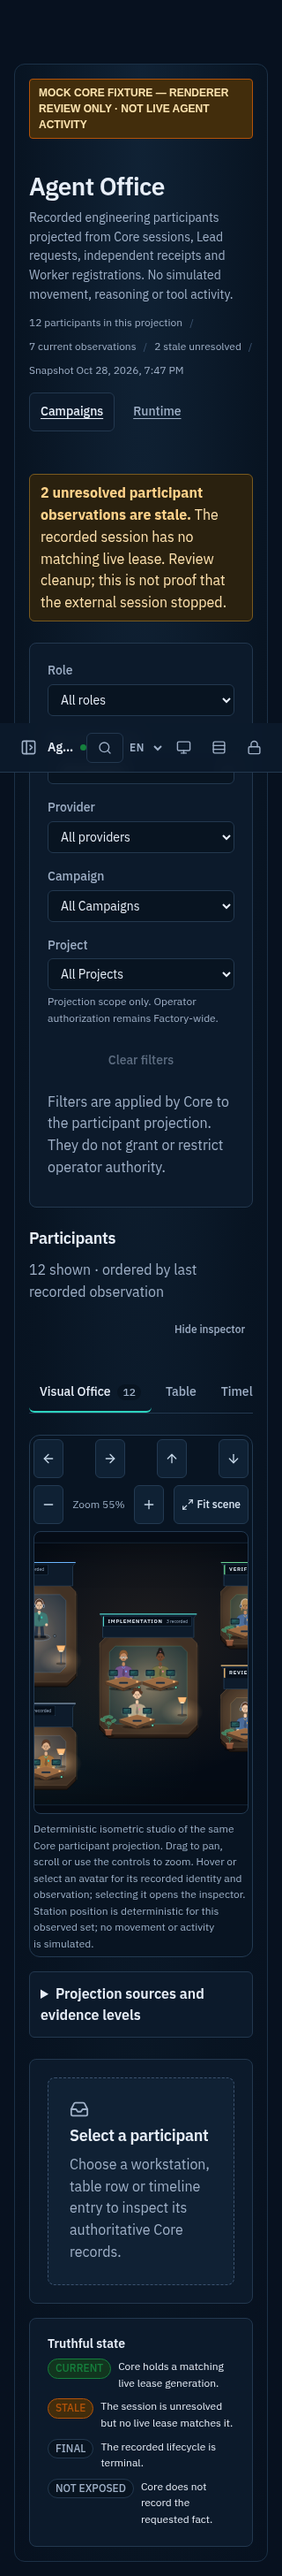
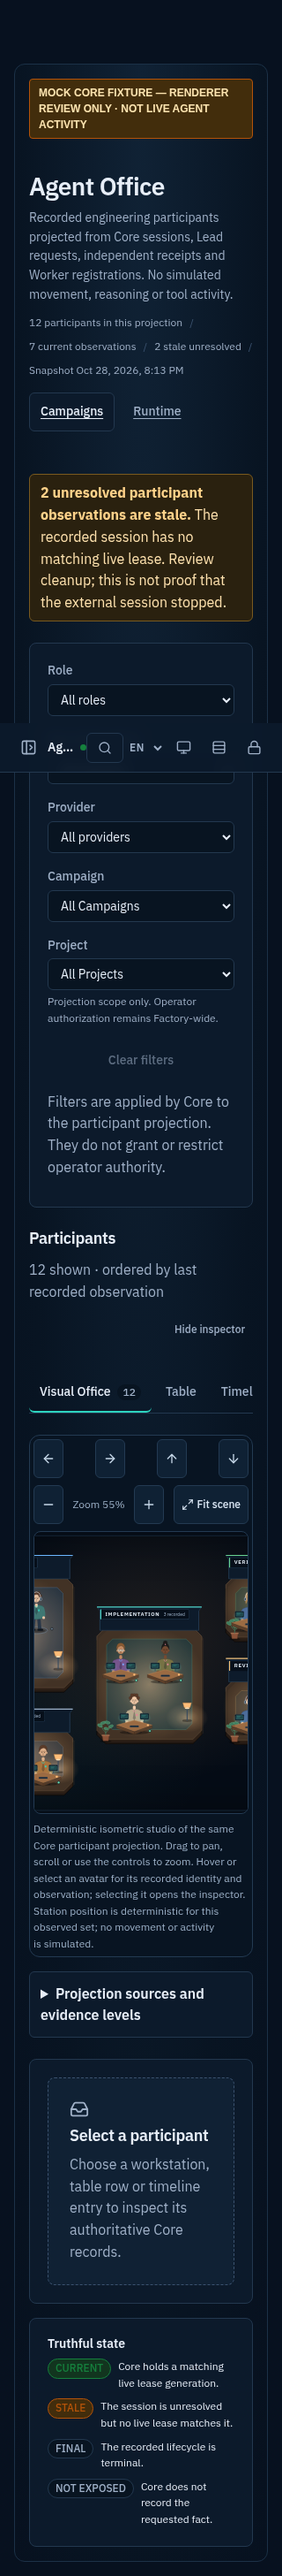
docs(office): bind repaired renderer evidence to c06432d
Refresh page and scene Chromium captures after the avatar-spacing and duplicate-identity repairs. Record the 0/1/5/12/30 fixture matrix, non-overlapping avatar-bound result, deterministic duplicate resolution, exact test/build status and side-by-side reference-comparison artifacts. All captures remain deterministic fixtures and make no live-activity or visual-approval claim.

Changed region(s): [[0.3438, 0.6246, 0.7188, 0.687], [0.125, 0.5933, 0.2812, 0.7183], [0.7812, 0.5933, 0.875, 0.687]]

diff --git a/docs/evidence/office-isometric-v0-2026-10-28/README.md b/docs/evidence/office-isometric-v0-2026-10-28/README.md
@@ -3,7 +3,7 @@
 **Level:** author self-test, deterministic browser fixtures. **Not** live agent
 activity, **not** independent acceptance and **not** Compose acceptance.
 
-- Code candidate: `8af44f7172b3ae0a4a7f0a2e3871aacde86eafdb`
+- Code candidate: `c06432d` (repair commit above `489bc48`)
 - Browser: Google Chrome for Testing 156.0.8078.4 via pinned
   `playwright-core` 1.64.1, headless, isolated temporary profile.
 - App: the real Office Vite bundle at `/#/agents`; Core API responses were
@@ -25,19 +25,31 @@ activity, **not** independent acceptance and **not** Compose acceptance.
 | Role filter | `#/agents?role=IMPLEMENTER` → 3 avatars, URL preserved |
 | Inspector collapse | hide/show the contextual side panel without losing view or filters |
 | 5 all-current Implementers | 5 distinct avatar appearances in Implementation |
-| 30 all-current Implementers | 30 avatars; unique looks; narrow widths use a pannable crop |
+| 30 all-current Implementers | 30 avatars; 30 unique looks; avatar bounds non-overlapping; narrow widths use a pannable crop |
+| Avatar bounds | every pair of 84 × 100 avatar bounds is non-overlapping at 0/1/5/12/30 and 30 Implementers (tested) |
+| Duplicate identities | CURRENT > STALE/FINAL/UNKNOWN, then newest `last_observed_at`, then lexical tiebreak; reverse input yields the same station/state/appearance (tested) |
 | Mixed observations | STALE/FINAL/UNKNOWN stand without a workstation; CURRENT is seated |
 | 0 participants | truthful empty state; zero avatars |
 | Spanish | EN/ES labels and room plaques render without missing-key fallback |
 
 Screenshots: `page-1440.png`, `page-834.png`, `page-390.png`, `page-320.png`,
-`page-selected-1440.png`, `page-filtered-1440.png`, `scene-0-1440.png`,
-`scene-5-implementers-1440.png`, `scene-30-1440.png`, `scene-30-390.png`,
-`scene-30-320.png`, `scene-12-es-1440.png`.
+`page-selected-1440.png`, `page-filtered-1440.png`; scene fixtures
+`scene-0-1440.png`, `scene-0-390.png`, `scene-1-1440.png`, `scene-1-390.png`,
+`scene-5-implementers-1440.png`, `scene-5-implementers-390.png`,
+`scene-12-1440.png`, `scene-12-390.png`, `scene-30-1440.png`,
+`scene-30-390.png`, `scene-30-320.png`, `scene-12-es-1440.png`,
+`scene-5-selected-1440.png`, `scene-5-hover-1440.png`.
 
-At 390/320 px the scene itself is a pannable crop that intentionally exceeds
-the clipped, non-scrolling viewport; the document does not overflow. Room
-plaques and overlaid identity cards are small at those widths.
+The screenshots were captured after the layout-spacing and duplicate-resolution
+repair (`c06432d`). Side-by-side comparisons with the Owner's primary reference
+are `comparison-primary-vs-full-page.jpg` and
+`comparison-primary-vs-30-active.jpg`; they are visual-direction comparisons,
+not fidelity or approval claims. The page captures use a mocked Core API with a visible
+`MOCK CORE FIXTURE` banner; scene captures use the fixture harness with a
+permanent `TEST FIXTURE — NOT LIVE CORE DATA` banner. At 390/320 px the scene
+itself is a pannable crop that intentionally exceeds the clipped, non-scrolling
+viewport; the document does not overflow. Room plaques and overlaid identity
+cards are small at those widths.
 
 ## NOT_TESTED
 
